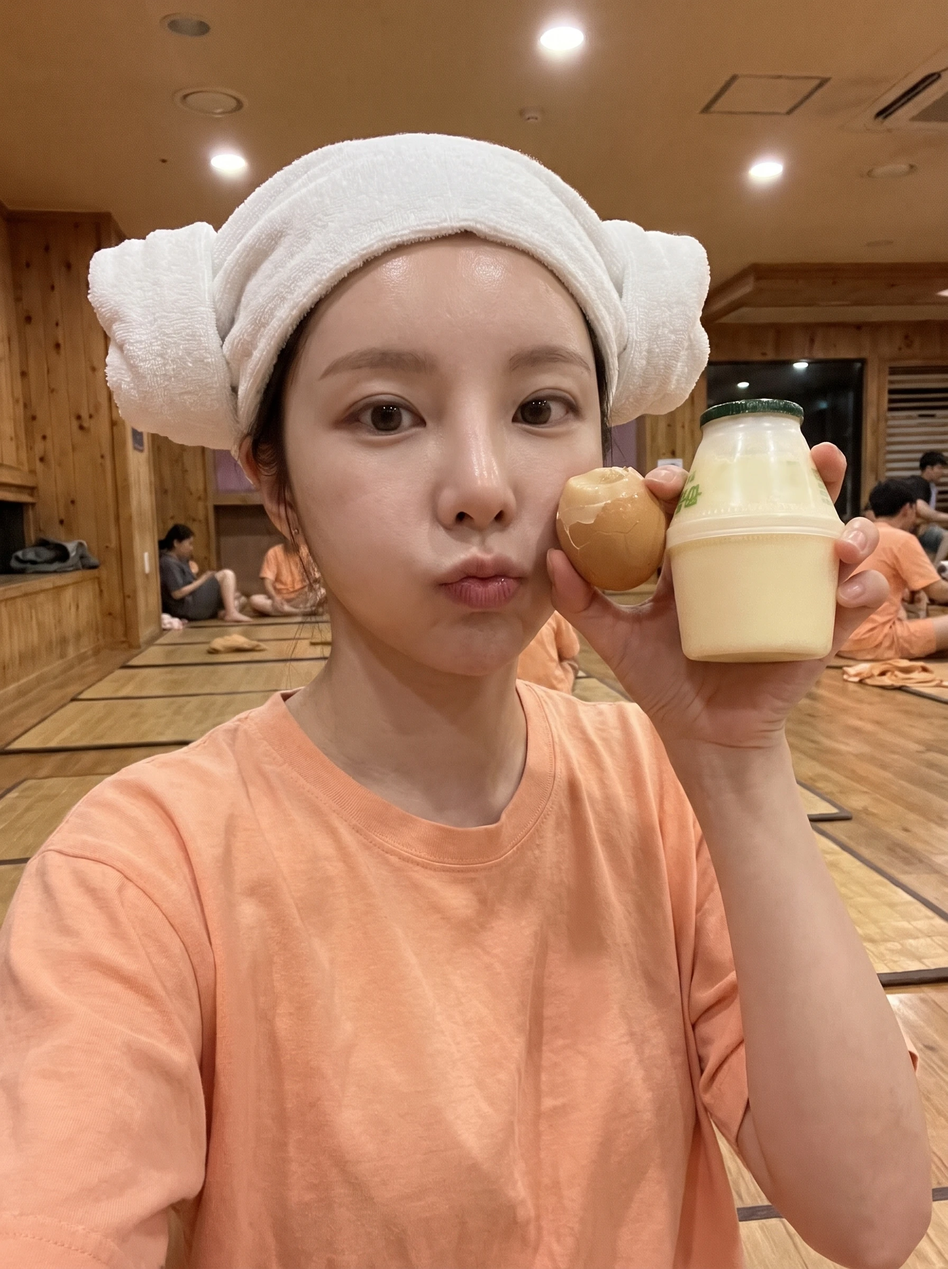
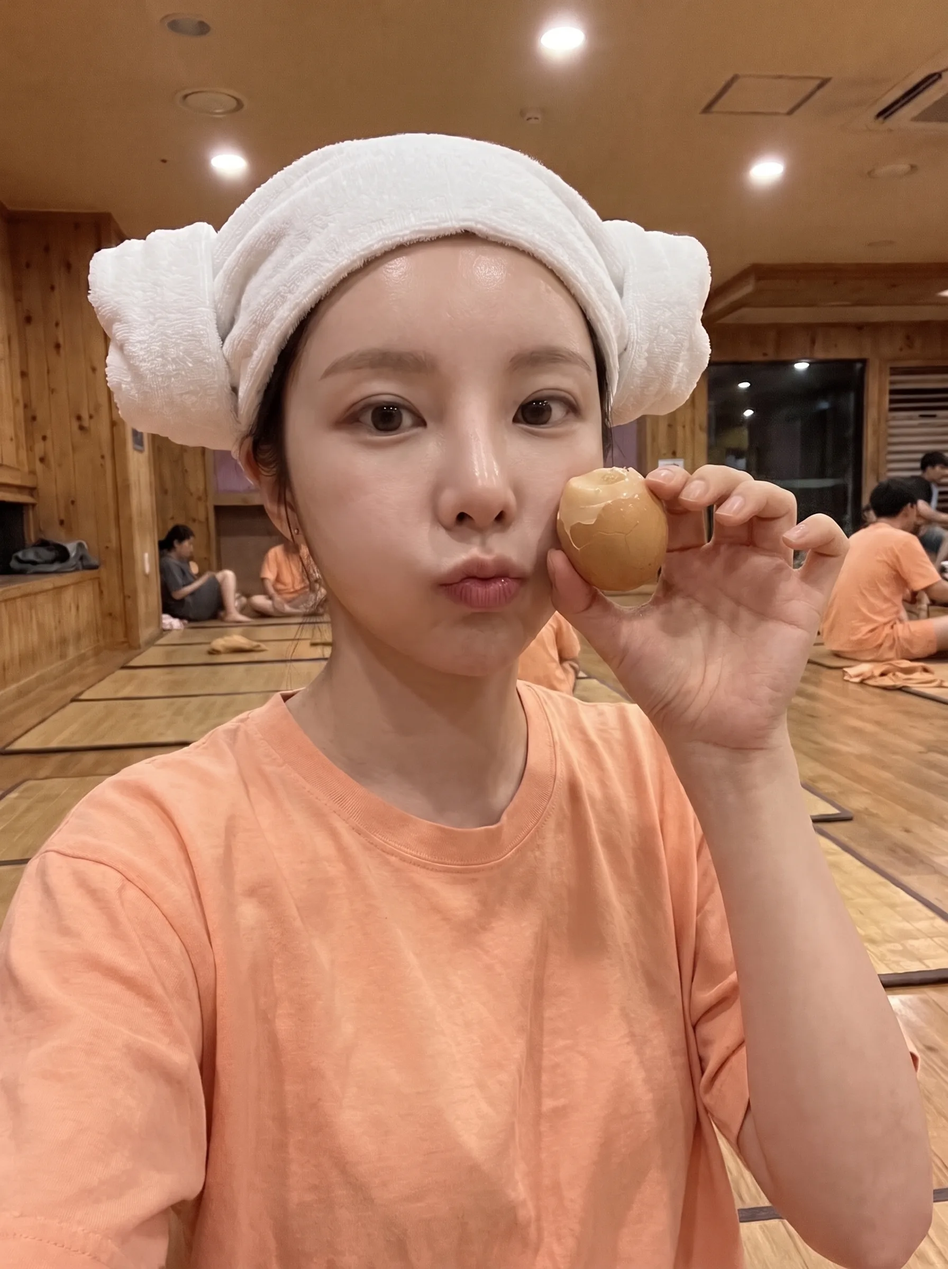
concepts: 1284 샘플 교체 — 바나나우유 없이 달걀만, sw v272
Claude-Session: https://claude.ai/code/session_01H2YvAQhUpTna7rrNEqetDc

diff --git a/public/sw.js b/public/sw.js
@@ -10,7 +10,7 @@
 // 새 버전 배포 시: 아래 VERSION 만 올리면 됨.
 // ============================================================
 
-const VERSION = "v271";
+const VERSION = "v272";
 const STATIC_CACHE = `rimikimi-static-${VERSION}`;
 const THUMB_CACHE = `rimikimi-thumbs-${VERSION}`;
 const DATA_CACHE = `rimikimi-data-${VERSION}`;
